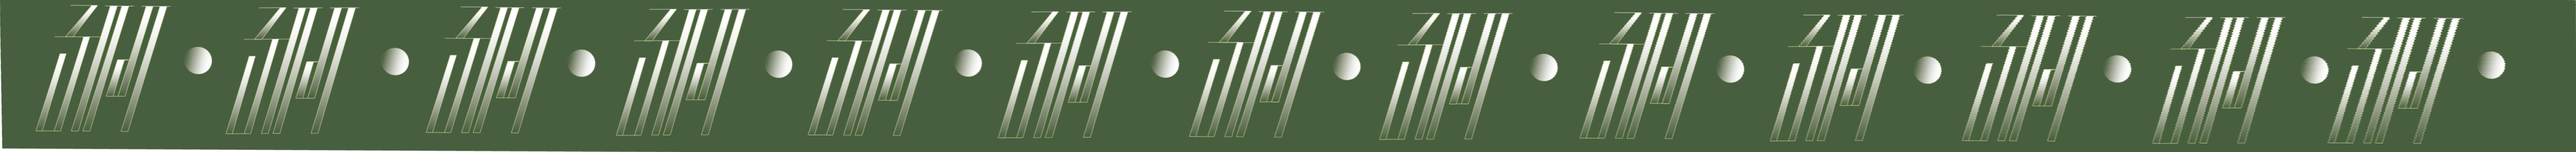
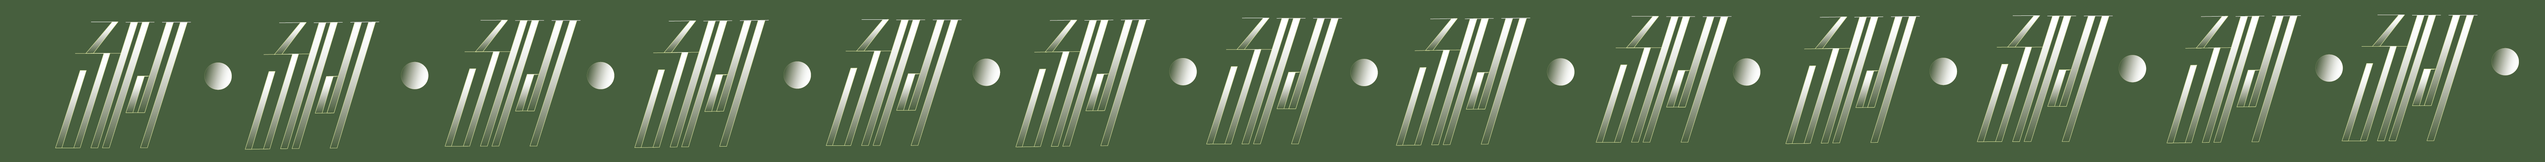
add aag animation
change patraakriti page

diff --git a/assets/js/imageSwitch.js b/assets/js/imageSwitch.js
@@ -1,18 +1,20 @@
 async function imageSwitch() {
-    async function handleSwitch(images) {
-        for(var i = 0; i < images.length; i++) {
-            images[i].classList.remove("opacity-0")
-            images[i].classList.add("opacity-100")
-            await new Promise(r => setTimeout(r, 1000))
-            images[i-1%images.length].classList.add("opacity-0")
-            images[i-1%images.length].classList.remove("opacity-100")
-        }
-    }
     var imagesContainers = document.getElementsByClassName("image-switch")
-    for(var imagesContainer of imagesContainers) {
-        var images = imagesContainer.getElementsByTagName("img")
-        handleSwitch(images)
-        // setInterval(() => handleSwitch(images), 1000)
+    var maxLength = 0
+    for(imagesContainer of imagesContainers) {
+        var images = imagesContainer.getElementsByTagName('img')
+        maxLength = ((images.length > maxLength) * images.length) + ((images.length <= maxLength) * maxLength)
+    }
+    for(var i = 0; i < maxLength; i = ((i - 1 < 0) * (maxLength - 1)) + ((i - 1 >= 0) * (i - 1))) {
+        console.log(i)
+        for(var imagesContainer of imagesContainers) {
+            var images = imagesContainer.getElementsByTagName("img")
+            images[i % images.length].classList.remove("opacity-0")
+            images[i % images.length].classList.add("opacity-100")
+            images[Math.abs((i+1)%images.length)].classList.add("opacity-0")
+            images[Math.abs((i+1)%images.length)].classList.remove("opacity-100")
+        }
+        await new Promise(r => setTimeout(r, 1000))
     }
 }
 

diff --git a/_typography/experimental-aag.md b/_typography/experimental-aag.md
@@ -35,18 +35,18 @@ layout: base
         <img class="object-contain w-full" src="{{site.baseurl}}assets/images/typography/website_aag strips-65.png">
     </div>
 </div>
-<div class="text-[36px] h-[200px] flex justify-center items-center leading-10 text-center">
+<div class="text-[36px] h-[200px] flex justify-center items-center leading-10 text-center my-20">
     This Devanagari display typeface explores the <br> dynamic interplay of gradients and colours, pushing <br> the boundaries of traditional letterforms.
 </div>
 <div class="w-full h-fit lg:px-20 px-5 font-[Instrument_Serif] text-white overflow-hidden mb-20">
     <div class="grid grid-cols-2 md:grid-rows-1 grid-rows-2 gap-5">
-        <div class="md:col-span-1 col-span-2 rounded-3xl overflow-hidden relative hover:cursor-pointer image-switch">
-            <img class="relative object-scale-down opacity-0" src="{{site.baseurl}}assets/images/typography/website_23.png">
-            <img class="absolute top-0 left-0 object-scale-down opacity-0" src="{{site.baseurl}}assets/images/typography/website_59.png">
+        <div class="md:col-span-1 col-span-2 rounded-3xl overflow-hidden relative hover:cursor-pointer image-switch i1">
+            <img class="relative object-scale-down" src="{{site.baseurl}}assets/images/typography/website_23.png">
+            <img class="absolute top-0 left-0 object-scale-down" src="{{site.baseurl}}assets/images/typography/website_59.png">
         </div>
-        <div class="md:col-span-1 col-span-2 rounded-3xl overflow-hidden relative hover:cursor-pointer image-switch">
-            <img class="relative object-scale-down" src="{{site.baseurl}}assets/images/typography/website_59.png">
-            <img class="absolute top-0 left-0 object-scale-down" src="{{site.baseurl}}assets/images/typography/website_23.png">
+        <div class="md:col-span-1 col-span-2 rounded-3xl overflow-hidden relative hover:cursor-pointer image-switch i2">
+            <img class="relative object-scale-down opacity-0" src="{{site.baseurl}}assets/images/typography/website_59.png">
+            <img class="absolute top-0 left-0 object-scale-down opacity-0" src="{{site.baseurl}}assets/images/typography/website_23.png">
         </div>
     </div>
 </div>

diff --git a/_typography/patraakriti.md b/_typography/patraakriti.md
@@ -2,8 +2,13 @@
 name: patraakriti (letterform of paper)
 image: /assets/images/typography/origami_type.png
 description: Where origami meets typography, this Devanagari typeface is in the making. 
-layout: post
+layout: base
 ---
-<div>
-    <img class="w-full h-full object-cover" src="{{site.baseurl}}assets/images/typography/red-origami-type.png" />
+<div class="lg:text-[96px] md:text-[96px] text-[50px] flex justify-center items-center min-h-[145px] italic">
+    {{ page.name }}
 </div>
+<img class="w-full h-full object-cover" src="{{site.baseurl}}assets/images/typography/kagaz_54.png" />
+<div class="text-[36px] h-[200px] flex justify-center items-center leading-10 text-center my-20">
+    This Devanagari display typeface explores the <br> dynamic interplay of gradients and colours, pushing <br> the boundaries of traditional letterforms.
+</div>
+<img class="w-full h-full object-cover" src="{{site.baseurl}}assets/images/typography/website_21_1.png" />
